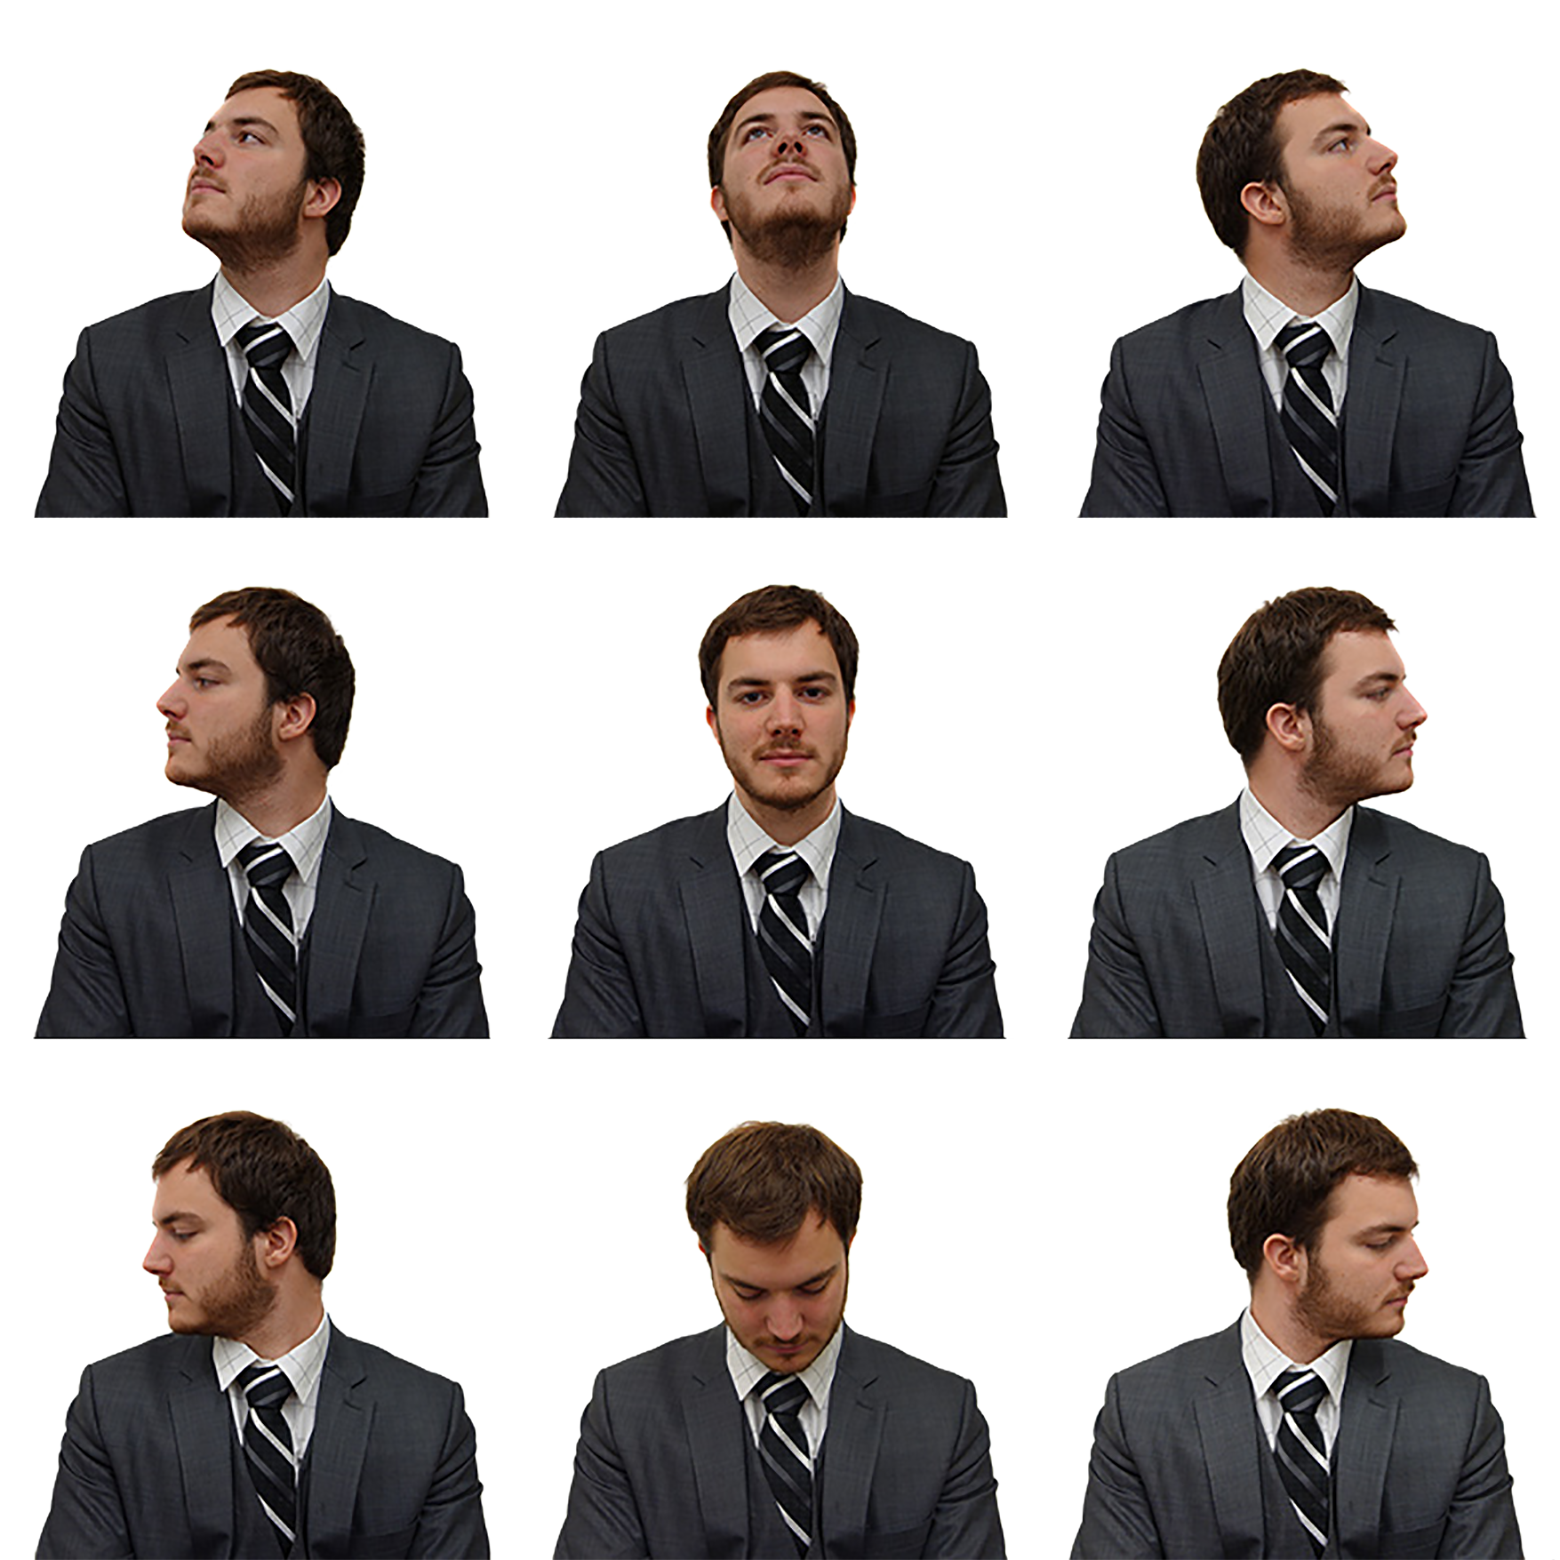
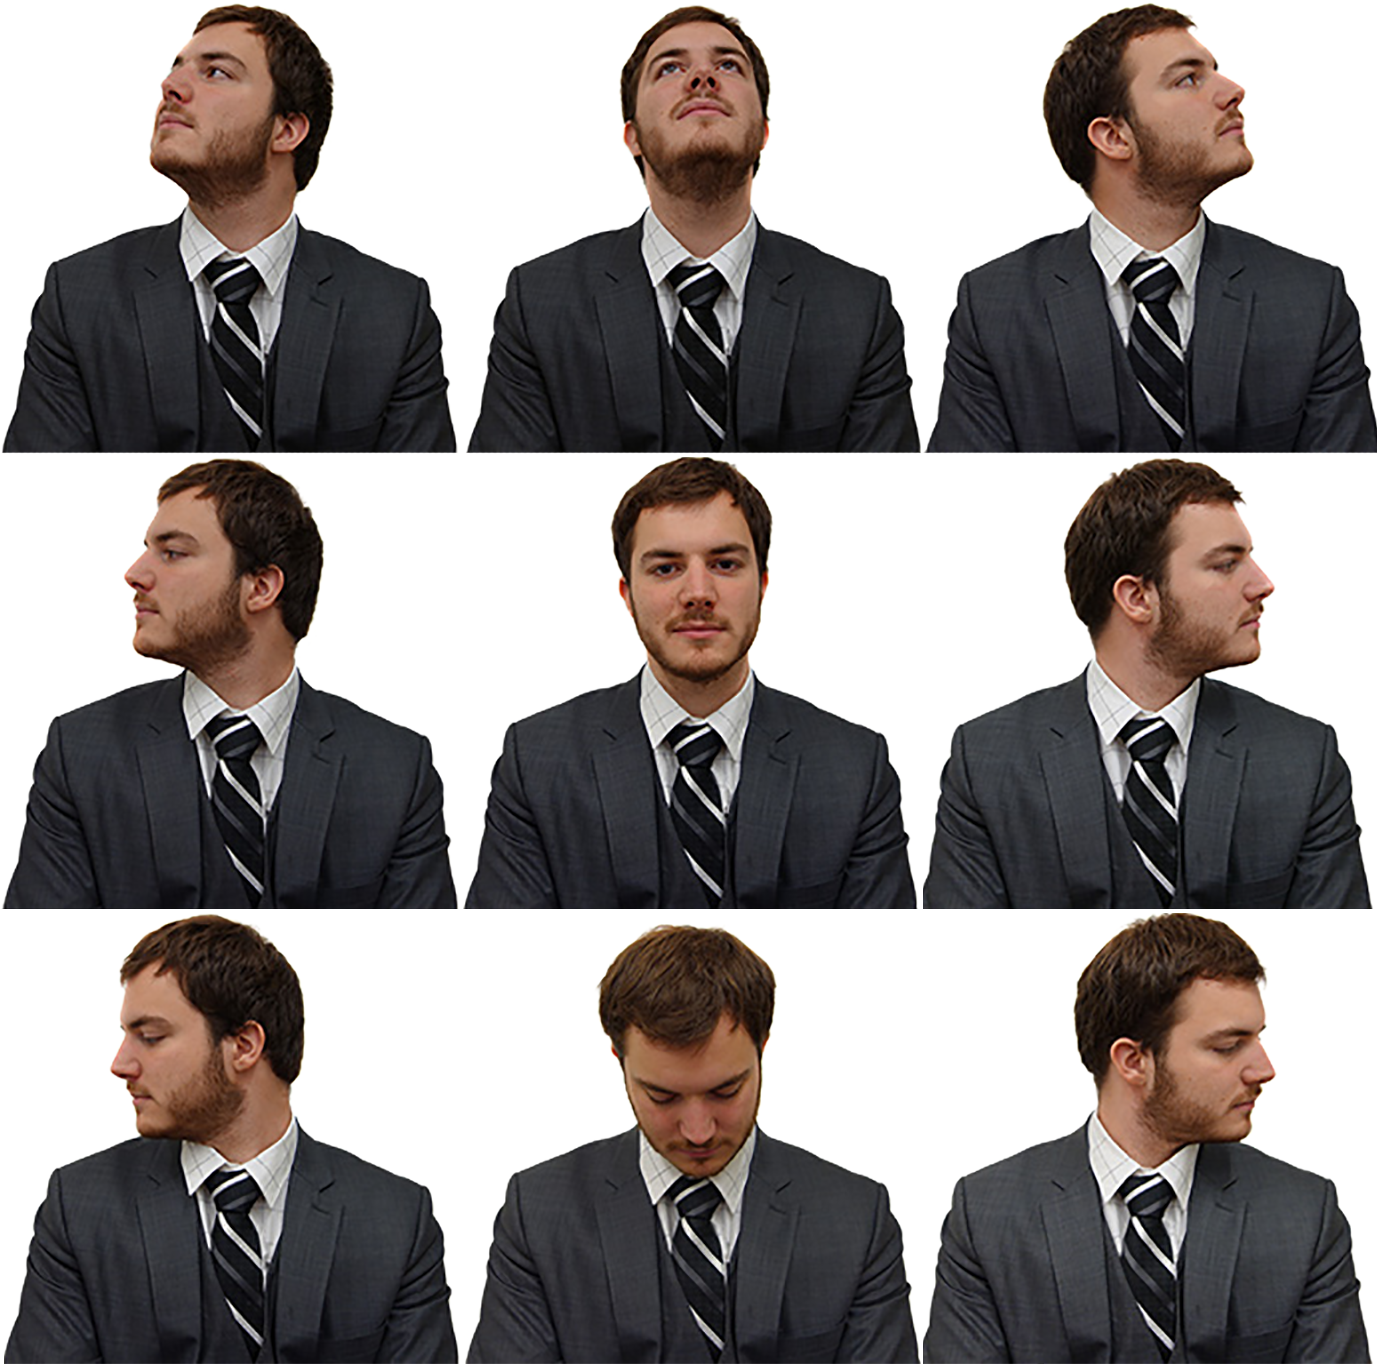
Redid layout, much better now

diff --git a/sass/_base.scss b/sass/_base.scss
@@ -3,16 +3,27 @@ $_black: #0B1221;
 $_white: #ffffff;
 
 /* VARIABLES */
-$sans: 'PT Sans', sans-serif;
-$mono: 'PT Mono';
 
 /* MIXINS */
 @mixin darken($property,$base-color){
   #{$property}: shade( $base-color, 12% );
 }
-@mixin colorway( $base-color, $text-color ){
-  background-color: $base-color;
-  color: $text-color;
+@mixin background-gradient($color){
+  $shade: shade( $color, 30% );
+  background: $color; /* Old browsers */
+  background: -moz-radial-gradient(bottom, ellipse cover,  $color 0%, $shade 100%); /* FF3.6+ */
+  background: -webkit-gradient(radial, bottom center, 0px, center center, 100%, color-stop(0%,$color), color-stop(100%,$shade)); /* Chrome,Safari4+ */
+  background: -webkit-radial-gradient(bottom, ellipse cover,  $color 0%,$shade 100%); /* Chrome10+,Safari5.1+ */
+  background: -o-radial-gradient(bottom, ellipse cover,  $color 0%,$shade 100%); /* Opera 12+ */
+  background: -ms-radial-gradient(bottom, ellipse cover,  $color 0%,$shade 100%); /* IE10+ */
+  background: radial-gradient(ellipse at bottom,  $color 0%,$shade 100%); /* W3C */
+  filter: progid:DXImageTransform.Microsoft.gradient( startColorstr='#{color}', endColorstr='#{$shade}',GradientType=1 ); /* IE6-9 fallback on horizontal gradient */  
+}
+@mixin colorway( $base-color, $compliment ){
+  background-color: $compliment;
+  section.product{
+    @include background-gradient($base-color);
+  }
   .branding{
     .logotype{
       path{
@@ -20,16 +31,14 @@ $mono: 'PT Mono';
       }
     }
   }
-  section{
-    &.model{
-      background-color: mix( $text-color, $base-color, 20% );
-    }
+  .navigation{
+    color: $base-color;
   }
 }
 /* BASE */
 body{
   margin: 0px auto;
-  font-size: 18px;
-  font-family: $mono;
+  font-size: 16px;
+  font-family: 'Raleway', sans-serif;
   color: $_white;
 }

diff --git a/sass/_rotate-head.scss b/sass/_rotate-head.scss
@@ -1,34 +1,34 @@
 #model{
-  width: 520px;
-  height: 520px;
+  width: 510px;
+  height: 504px;
   display: block;
-  margin: 0 auto;
   background-repeat: no-repeat;
+  background-size: 300%;
   &.up{
-    background-position:-520px 0px;
+    background-position:50% 0%;
   }
   &.up-left{
-    background-position: 0px 0px;
+    background-position: 0% 0%;
   }
   &.up-right{
-    background-position:-1040px 0px;
+    background-position:100% 0%;
   }
   &.left{
-    background-position:0px -520px;
+    background-position:0% 50%;
   }
   &.front{
-    background-position:-520px -520px;
+    background-position:50% 50%;
   }
   &.right{
-    background-position:-1040px -520px;
+    background-position:100% 50%;
   }
   &.down-left{
-    background-position: 0px -1040px;
+    background-position: 0% 100%;
   }
   &.down{
-    background-position: -520px -1040px;
+    background-position: 50% 100%;
   }
   &.down-right{
-    background-position: -1040px -1040px;
+    background-position: 100% 100%;
   }
 }

diff --git a/index-old.html b/index-old.html
@@ -1,0 +1,29 @@
+<!-- @include _header -->
+<!-- @javascript rotate-head -->
+</head>
+<body class="product blue">
+  <div class="container">
+    <div class="left-column">
+      <!-- @include _branding -->
+      <!-- @include _navigation -->
+      <section class="product-description">
+        <h1>Product Name</h1>
+        <h3>Navy</h3>
+        <p>A very navy hat with a picture of corn on it.</p>
+        <div class="edition-count">
+          <span class="edition left">3</span><span class="out-of"><h3>Out<br>Of</h3></span><span class="edition full">5</span><br><span class="available"><h3>Available</h3></span>
+        </div>
+        <div class="price">
+          <h1>$65.00</h1>
+        </div>
+        <div class="button">
+          Add To Cart
+        </div>
+      </section>
+    </div>
+  </div>
+  </section>
+  <section class="model">
+    <div id="model" style="background-image: url('images/model_macro.png');"></div>
+  </section>
+<!-- @include _footer -->

diff --git a/sass/_product.scss b/sass/_product.scss
@@ -1,10 +1,38 @@
-section{
-  width: 100;
-  &.product-description{
-  text-align: center;
+.edition-count{
+  height: 11em;
+  width: 11em;
+  border-radius: 6em;
+  margin: 3em auto;
+  padding: 3em 0 0;
+  span{
+    display: inline-block;
+    vertical-align: middle;
+    &.edition{
+      font-size: 4em;
+      font-weight: bold;
+      line-height: .9em;
+      padding: 0 .1em;
+    }
   }
-  &.model{
-    padding: 50px 0 0;
-    text-align: center;
+}
+section.product{
+  padding: 12em 0 0;
+  .container{
+    position: relative;
+  }
+  .information{
+    position: absolute;
+    max-width: 300px;
+    p{
+      padding: 0 0 2em;
+      border-bottom: 2px solid $_white;
+    }
+    .price{
+      margin: 2em 0 0;
+    }
+  }
+  .model{
+    width: intrinsic;
+    margin-left: calc(5% + 250px);
   }
 }

diff --git a/sass/_typography.scss b/sass/_typography.scss
@@ -1,10 +1,31 @@
 h1{
-  font-size: 2em;
-  letter-spacing: 1px;
-  font-family: $sans;
+  font-size: 4.5em;
+  line-height: .8em;
+  font-weight: 900;
+}
+h2{
+  font-size: 2.2em;
+  font-weight: 900;
 }
 h3{
-  font-size: .8em;
+  font-size: .9em;
   text-transform: uppercase;
+  letter-spacing: 1px;
+  font-weight: 800;
+  h1 + &{
+    margin: 2em 0 0;
+  }
+}
+p{
+  font-weight: 400;
+  font-size: 1em;
+  line-height: 1.4em;
+  h3 + &{
+    margin: .3em 0 inherit;
+  }
+}
+.button{
+  text-transform: uppercase;
+  font-weight: 800;
   letter-spacing: 1px;
 }

diff --git a/sass/_navigation.scss b/sass/_navigation.scss
@@ -1,0 +1,28 @@
+section.navigation{
+  position: fixed;
+  bottom: 0;
+  nav{
+    ul{
+      li{
+        display: inline-block;
+        padding: 0 1.2em 0 0;
+        a{
+          line-height: 1.7em;
+          font-weight: 400;
+          font-size: .9em;
+          letter-spacing: .1em;
+          border-bottom: 1px solid $_white;
+        }
+      }
+    }
+    padding: 0 0 1em;
+  }
+  .cart{
+    height: 100px;
+    width: 100px;
+    background-color: aqua;
+    right: 0;
+    position: absolute;
+    bottom: 0;
+  }
+}

diff --git a/sass/_colorways.scss b/sass/_colorways.scss
@@ -1,6 +1,7 @@
 $_green: #1BA886;
 $_red: #A02424;
 $_yellow: #F79C39;
+$_blue: #83D3EA;
 
 body{
   &.product{
@@ -12,8 +13,15 @@ body{
     &.green{
       @include colorway($_green, #04664C);
     }
+    /* ----YELLOW----- */
     &.yellow{
       @include colorway($_yellow, #B62C2C);
+    }
+    &.blue{
+      @include colorway(#83D3EA, #4D7CB7);
+    }
+    &.grey{
+      @include colorway(#E5DDD2, #92A2A1);
     }
   }
 }

diff --git a/_branding.html b/_branding.html
@@ -1,5 +1,5 @@
 <section class="branding">
-<div class="container">
+  <div class="container">
 <svg class="logotype" version="1.1" id="Layer_1" xmlns="http://www.w3.org/2000/svg" xmlns:xlink="http://www.w3.org/1999/xlink" x="0px" y="0px"
 	 width="394.333px" height="197.333px" viewBox="0 0 394.333 197.333" enable-background="new 0 0 394.333 197.333"
 	 xml:space="preserve">

diff --git a/_navigation.html b/_navigation.html
@@ -1,8 +1,11 @@
 <section class="navigation">
-  <nav>
-    <ul>
-      <li><a href="">About</a></li>
-      <li><a href="">F.A.Q.</a></li>
-    </ul>
-  </nav>
+  <div class="container">
+    <nav>
+      <ul>
+        <li><a href="">About</a></li>
+        <li><a href="">F.A.Q.</a></li>
+        <li><a href="">Twitter</a></li>
+      </ul>
+    </nav>
+  </div>
 </section>

diff --git a/sass/style.scss b/sass/style.scss
@@ -1,4 +1,4 @@
-@import url(http://fonts.googleapis.com/css?family=PT+Sans:700|PT+Mono);
+@import url(http://fonts.googleapis.com/css?family=Raleway:400,600,800,900,700,500);
 @import "reset";
 @import "base";
 @import "layout";
@@ -8,3 +8,5 @@
 @import "product";
 @import "branding";
 @import "colorways";
+@import "navigation";
+@import "module";

diff --git a/sass/_module.scss b/sass/_module.scss
@@ -1,0 +1,15 @@
+.button{
+  padding: 1em 1.5em;
+  border: 2px solid;
+  border-color: $_white;
+  width: intrinsic;
+  border-radius: 5px;
+  cursor: pointer;
+  margin: 1em 0 0;
+  &:hover{
+    background-color: rgba(255,255,255, .2);
+  }
+  &:active{
+    background-color: rgba(255,255,255, .4);
+  }
+}

diff --git a/sass/_branding.scss b/sass/_branding.scss
@@ -1,8 +1,11 @@
 section.branding{
-  position: fixed;
-  padding: 2em 0 0;
+  padding: 1em 0 0;
+  position: absolute;
   .logotype{
-    width: 271px;
-    height: 133px;
+    width: 200px;
+    height: 120px;
+    path{
+      fill: $_white;
+    }
   }
 }
